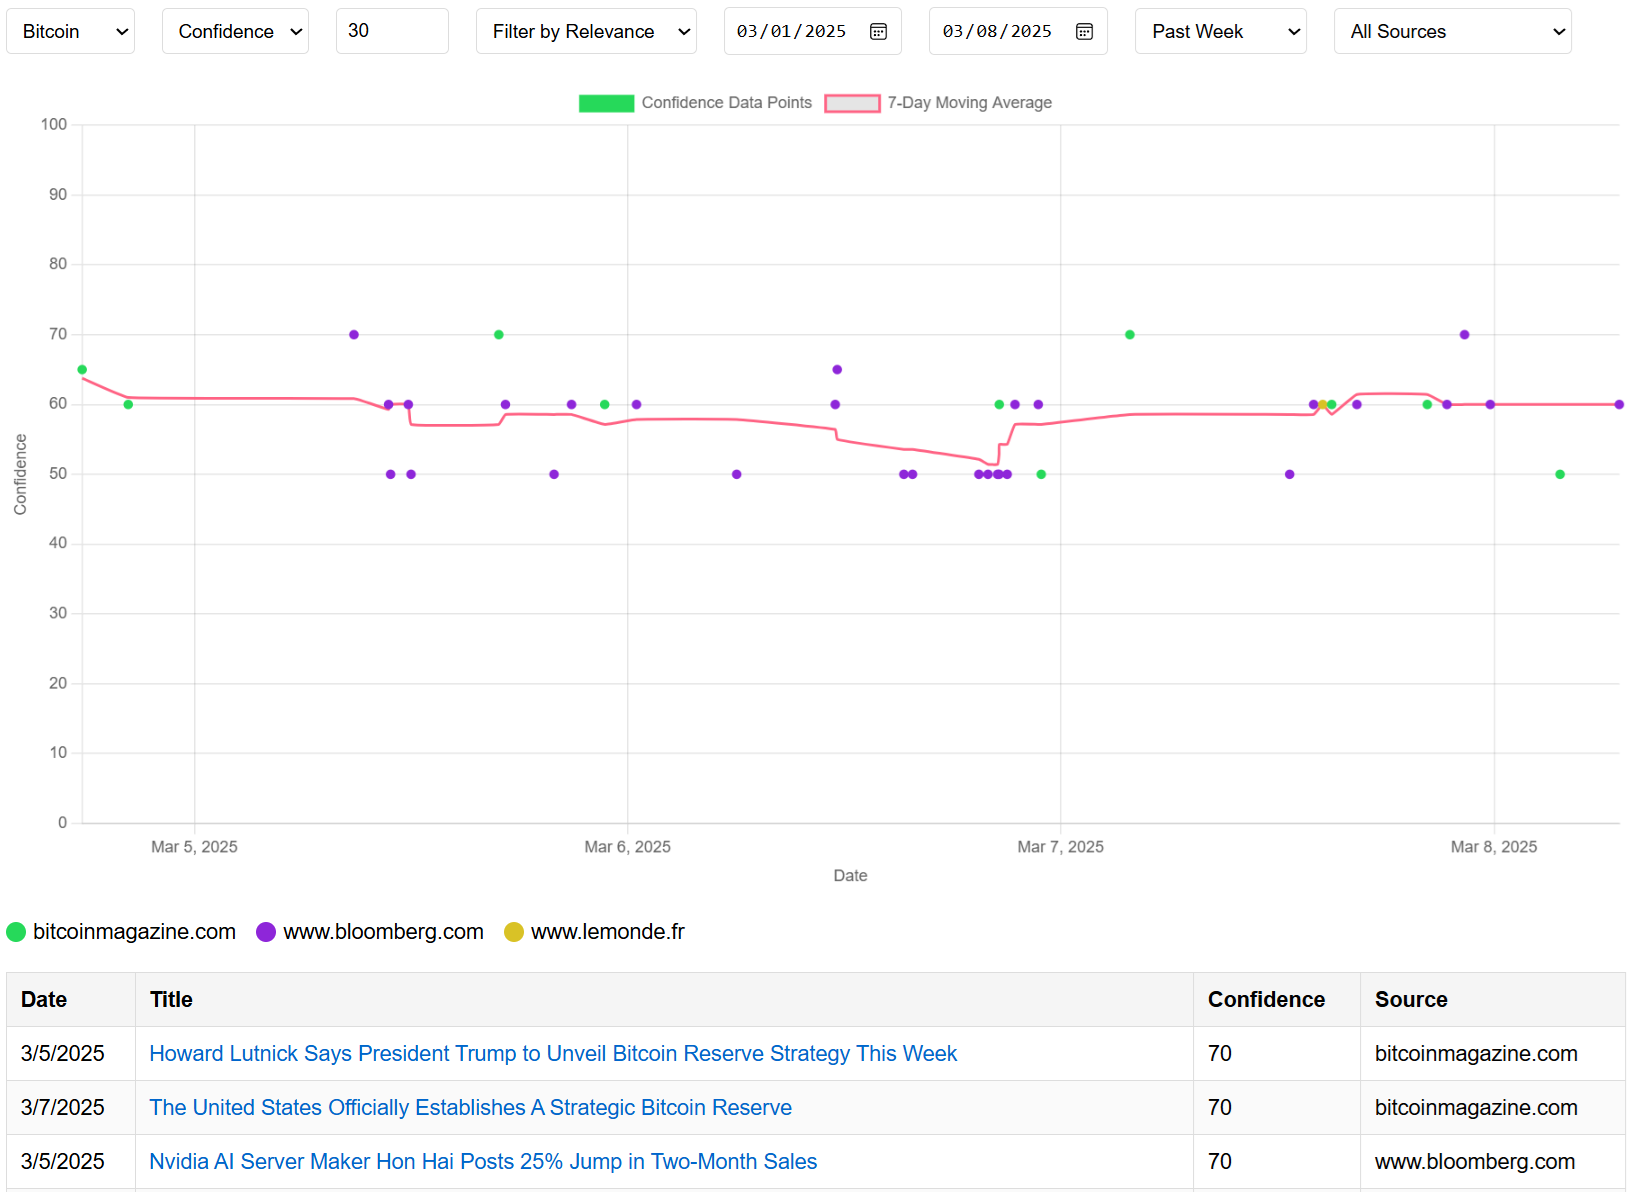
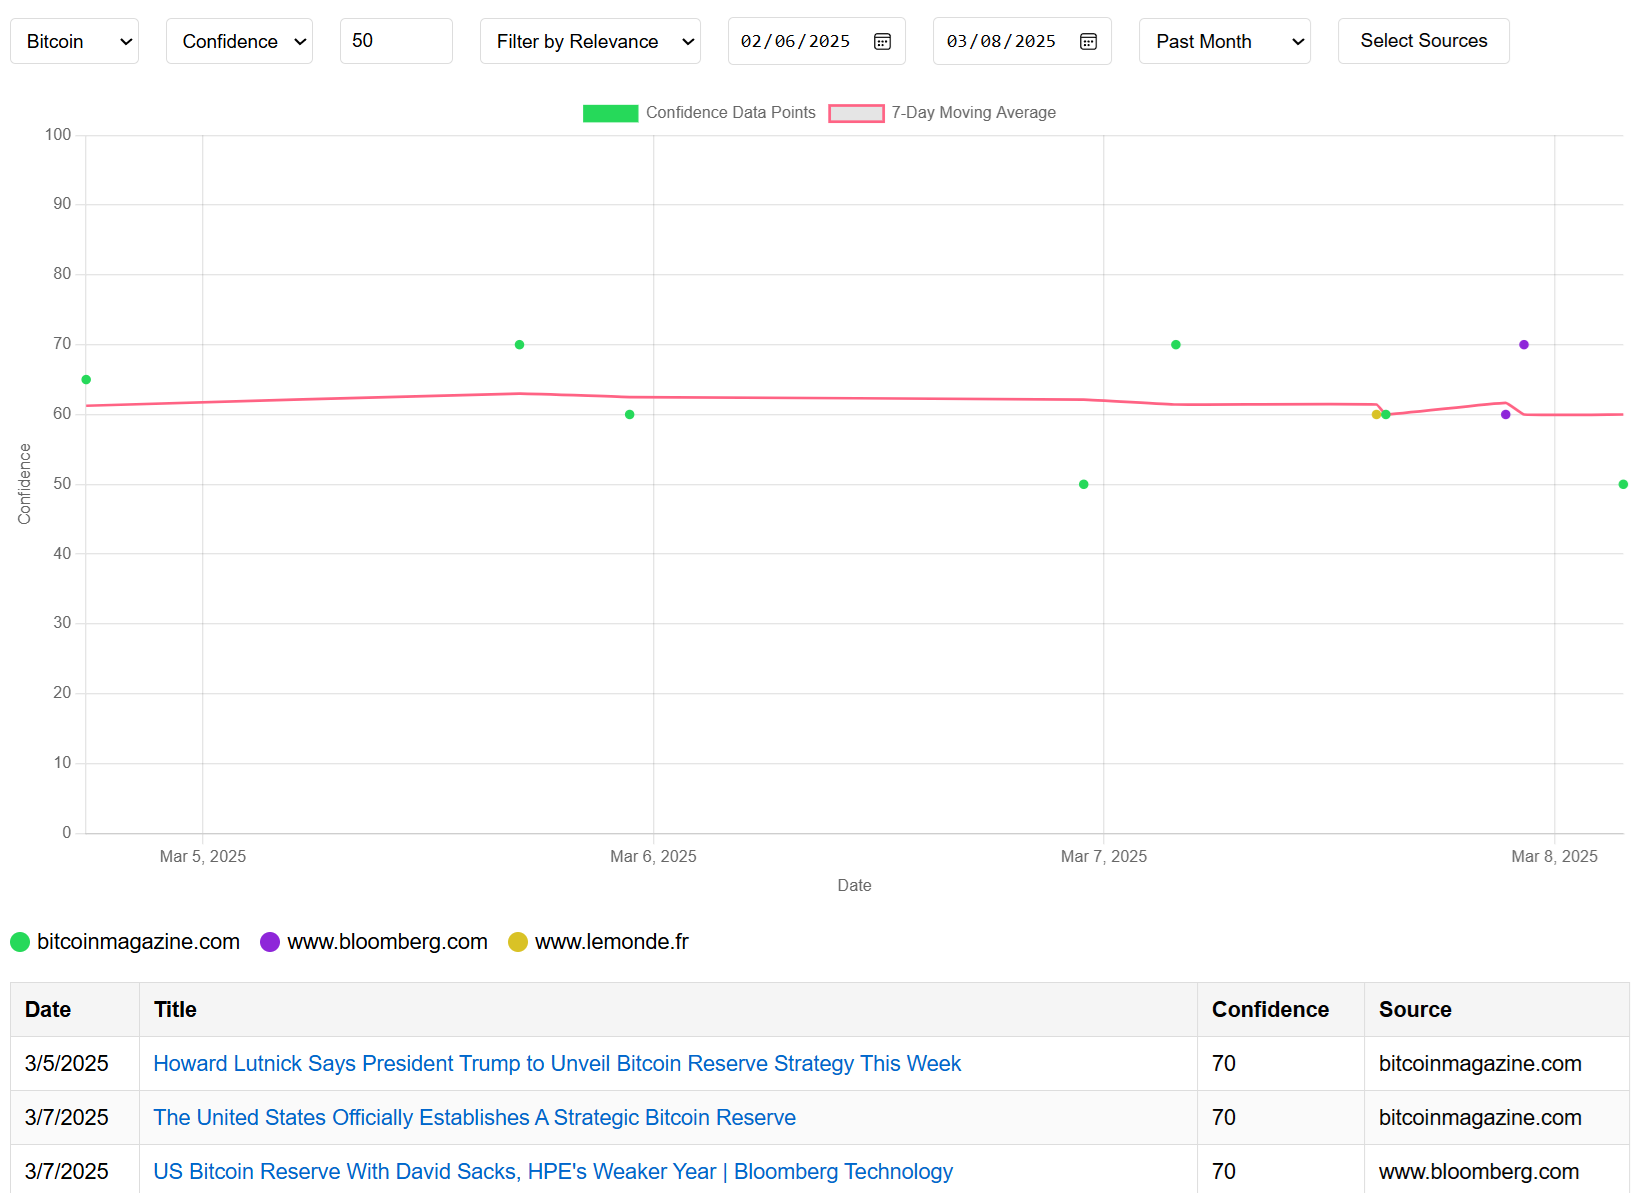
Mutli-select checkboxes

diff --git a/web-ui/dist/index.html b/web-ui/dist/index.html
@@ -111,6 +111,48 @@
             border-radius: 50%;
             display: inline-block;
         }
+
+        .dropdown-container {
+            position: relative;
+            display: inline-block;
+        }
+
+        .dropdown-button {
+            padding: 8px 16px;
+            border: 1px solid #ddd;
+            border-radius: 4px;
+            background-color: white;
+            cursor: pointer;
+            font-size: 14px;
+        }
+
+        .dropdown-content {
+            display: none;
+            position: absolute;
+            background-color: white;
+            min-width: 200px;
+            max-height: 300px;
+            overflow-y: auto;
+            border: 1px solid #ddd;
+            border-radius: 4px;
+            box-shadow: 0 2px 4px rgba(0,0,0,0.1);
+            z-index: 1;
+            padding: 10px;
+        }
+
+        .dropdown-content label {
+            display: block;
+            margin: 5px 0;
+        }
+
+        .dropdown-content input[type="checkbox"] {
+            margin-right: 5px;
+        }
+
+        .dropdown-container:hover .dropdown-content,
+        .dropdown-content:hover {
+            display: block;
+        }
     </style>
 </head>
 <body>
@@ -135,9 +177,10 @@
                 <option value="week">Past Week</option>
                 <option value="month">Past Month</option>
             </select>
-            <select id="sourceFilter">
-                <option value="all">All Sources</option>
-            </select>
+            <div class="dropdown-container">
+                <button class="dropdown-button">Select Sources</button>
+                <div class="dropdown-content" id="sourceFilter"></div>
+            </div>
         </div>
         <div class="chart-container">
             <canvas id="dataChart"></canvas>
@@ -178,7 +221,7 @@
             await loadInitialData();
         }
 
-        // Load subjects from endpoint and populate source filter
+        // Load subjects from endpoint
         async function loadSubjects() {
             try {
                 const response = await fetch('/subjects');
@@ -205,14 +248,15 @@
                 // Update source filter
                 const sourceFilter = document.getElementById('sourceFilter');
                 const existingSources = new Set(
-                    Array.from(sourceFilter.options).map(opt => opt.value).filter(val => val !== 'all')
+                    Array.from(sourceFilter.getElementsByTagName('input')).map(input => input.value)
                 );
                 Object.values(data.Items).forEach(item => {
                     if (!existingSources.has(item.Source)) {
-                        const option = document.createElement('option');
-                        option.value = item.Source;
-                        option.textContent = item.Source;
-                        sourceFilter.appendChild(option);
+                        const label = document.createElement('label');
+                        label.innerHTML = `
+                            <input type="checkbox" value="${item.Source}" checked> ${item.Source}
+                        `;
+                        sourceFilter.appendChild(label);
                         existingSources.add(item.Source);
                     }
                 });
@@ -334,7 +378,10 @@
             const filterType = document.getElementById('filterType').value;
             const startDate = document.getElementById('startDate').value;
             const endDate = document.getElementById('endDate').value;
-            const sourceFilter = document.getElementById('sourceFilter').value;
+            const sourceFilter = document.getElementById('sourceFilter');
+            const selectedSources = Array.from(sourceFilter.getElementsByTagName('input'))
+                .filter(input => input.checked)
+                .map(input => input.value);
 
             const items = allData[subject] || {};
             let dataPoints = Object.entries(items).map(([link, item]) => ({
@@ -365,8 +412,8 @@
             }
 
             // Apply source filter
-            if (sourceFilter !== 'all') {
-                dataPoints = dataPoints.filter(point => point.source === sourceFilter);
+            if (selectedSources.length > 0) {
+                dataPoints = dataPoints.filter(point => selectedSources.includes(point.source));
             }
 
             // Sort by date for chart
